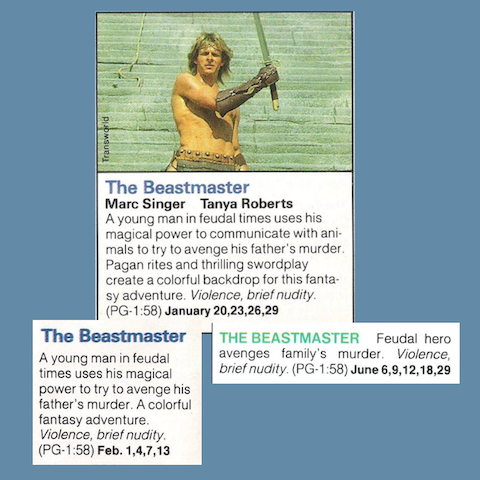
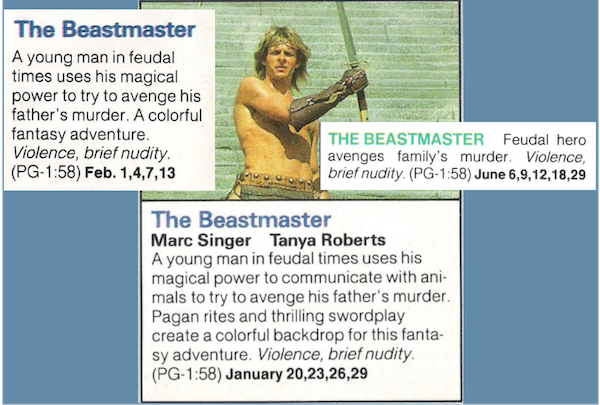
Add files via upload

diff --git a/beastmaster.html b/beastmaster.html
@@ -217,7 +217,7 @@
 
 <picture>
     <source media="(min-width: 480px)" srcset="Pics/The-Beastmaster-airings.png 800w" sizes="30vw">
-    <img src="/Pics/Me-in-4th-Grade-crop-small.png" alt="Beastmaster Dates" style="width: 100%; height: auto;">
+    <img src="/Pics/The-Beastmaster-airings-small.png" alt="Beastmaster Dates" style="width: 100%; height: auto;">
 </picture>
 
 <h1>HBO: Hey, Beastmaster's On!</h1>
